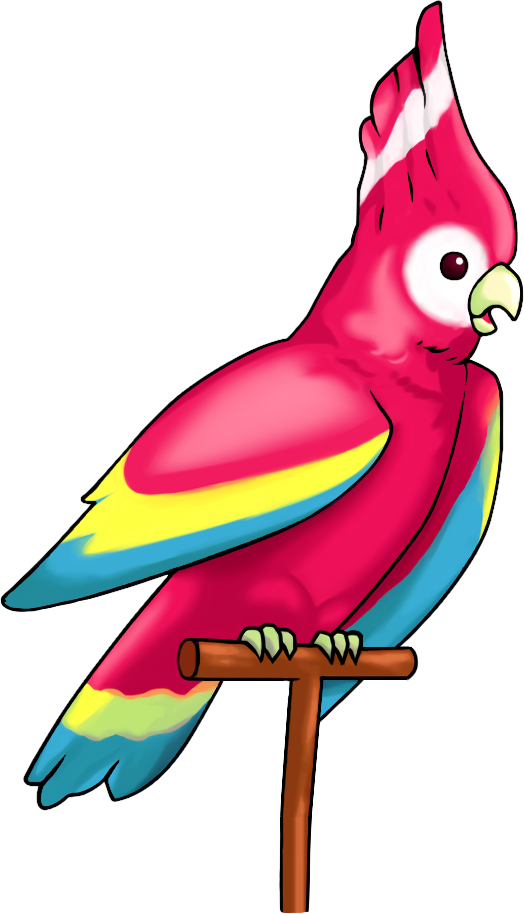
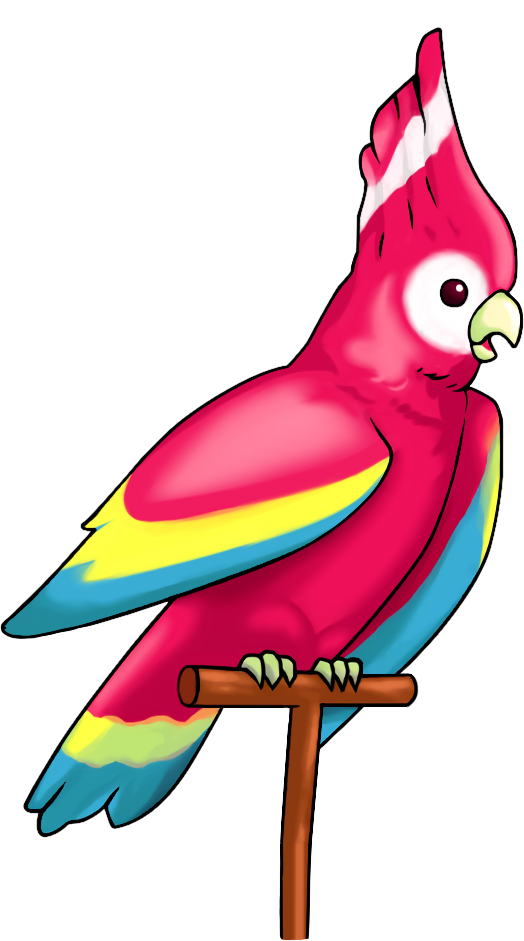
Parrot Mate: Text bubbles, image resizes
Added a new TextAction, added to an event by Text('Your text here'), which
shows up when the event is performed in a speech bubble to the parrot's
top-right.
Also resized and moved the images around for a bit so that they are all
the same size and located so that the stand in all of them is in the same
place. Before doing so, when the parrot was animated it looked like the
stand was moving, which was just weird.

Changed region(s): [[0.0, 0.0, 1.0, 0.8884], [0.5191, 0.8271, 0.5496, 0.8578]]

diff --git a/Scripted/Effects/ParrotMate/parrot.html b/Scripted/Effects/ParrotMate/parrot.html
@@ -3,38 +3,100 @@
 <head lang="en">
 	<meta charset="UTF-8">
 	<title>Parrot Mate</title>
-    <!-- This is to stop a weird "favicon" error.
-        Solution taken from here:
-        https://stackoverflow.com/questions/31075893/im-getting-favicon-ico-error -->
-    <link rel="shortcut icon" href="#" />
-    <style>
-        * {
-            margin: 0;
-            padding: 0;
-        }
-        .imgbox {
-            display: grid;
-            height: 100%;
-        }
-        .center-fit {
-            max-width: 100%;
-            max-height: 100vh;
-            margin: auto;
-            visibility: "hidden";
-        }
-    </style>
+	<!-- This is to stop a weird "favicon" error.
+		Solution taken from here:
+		https://stackoverflow.com/questions/31075893/im-getting-favicon-ico-error -->
+	<link rel="shortcut icon" href="#" />
+	<style>
+		
+		.imgbox {
+			display: grid;
+			height: 100%;
+		}
+		
+		.center-fit {
+			max-width: 100%;
+			max-height: 100vh;
+			margin: auto;
+			visibility: "hidden";
+		}
+		
+		.bubble-holder {
+			position: absolute;
+			left: 65%;
+			top: 5%;
+		}
+		
+		.bubble {
+			position: absolute;
+			font-family: -apple-system,BlinkMacSystemFont,Segoe UI,Roboto,Helvetica,Arial,sans-serif;
+			font-size: 48px;
+			line-height: 24px;
+			width: 400px;
+			background: #fff;
+			border-radius: 40px;
+			padding: 24px;
+			text-align: center;
+			color: #000;
+			border: #0c0c0c solid 4px;
+			z-index: 2;
+		}
+
+		.bubble:after {
+			content: "";
+			position: absolute;
+			width: 0px;
+			border-style: solid;
+			border-width: 20px 20px 0;
+			border-color: #CF5858 transparent;
+			border-left: 20px solid #fff;
+			border-right: 8px solid transparent;
+			border-top: 8px solid #fff;
+			border-bottom: 16px solid transparent;
+			left: 34px;
+			bottom: -24px;
+			display: block;
+			z-index: 1;
+		}
+
+		.bubble:before {
+			content: "";
+			width: 0px;
+			height: 0px;
+			position: absolute;
+			border-left: 24px solid #000;
+			border-right: 12px solid transparent;
+			border-top: 8px solid #000;
+			border-bottom: 20px solid transparent;
+			left: 32px;
+			bottom: -28px;
+			display: block;
+			z-index: 0;
+		}
+		
+		.bubble-text {
+			white-space: pre-wrap;
+			line-height: 1em;
+		}
+	</style>
 </head>
 <body>
 	<div id="soundholder"></div>
 	
 	<div id="imageholder" class="imgbox">
-	    <img id="parrot" class="center-fit" src="">
+		<img id="parrot" class="center-fit" src="">
+			<div id="bubble" class="bubble-holder">
+				<div id="bubbleText" class="bubble bubble-bottom-left bubble-text"></div>
+			</div>
 	</div>
 	
 	<script src="https://ajax.googleapis.com/ajax/libs/jquery/3.2.1/jquery.min.js"></script>
-    <script src="/socket.io/socket.io.js"></script>
+	
+	<script type="text/javascript">$('#bubble').hide();</script>
+	
+	<script src="/socket.io/socket.io.js"></script>
 	<script src="../effectClient.js"></script>
-    <script src="files.js"></script>
+	<script src="files.js"></script>
 	<script src="engine.js"></script>
 	<script src="sequences.js"></script>
 	<script src="parrot.js"></script>

diff --git a/Scripted/Effects/ParrotMate/sequences.js b/Scripted/Effects/ParrotMate/sequences.js
@@ -2,6 +2,7 @@
 const SEQUENCES = {
 	hey: Sequence([
 		Event(0, [ Sound('hey') ]),
+		Event(0, [ Text('Hey! Look! Listen!\nHey! Look! Listen!') ]),
 		Event(200, [ Image('wing') ]),
 		Event(500, [ Image('regular') ]),
 		Event(750, [ Image('look') ]),
@@ -39,6 +40,7 @@ const SEQUENCES = {
 	behind: Sequence([
 		Event(0, [ Sound('behind') ]),
 		Event(173, [ Image('wing') ]),
+		Event(694, [ Text('Look behind you!') ]),
 		Event(694, [ Image('look') ]),
 		Event(1744, [ Image('regular') ]),
 	]),
@@ -47,6 +49,7 @@ const SEQUENCES = {
 		Event(0, [ Sound('attention') ]),
 		Event(163, [ Image('wing') ]),
 		Event(686, [ Image('regular') ]),
+		Event(928, [ Text('Give me attention!') ]),
 		Event(928, [ Image('wing') ]),
 		Event(1183, [ Image('regular') ]),
 		Event(1417, [ Image('wing') ]),
@@ -58,6 +61,7 @@ const SEQUENCES = {
 		Event(0, [ Sound('cracker') ]),
 		Event(187, [ Image('mouth') ]),
 		Event(754, [ Image('look') ]),
+		Event(1066, [ Text('Polly want a cracker!') ]),
 		Event(1066, [ Image('mouth') ]),
 		Event(1336, [ Image('regular') ]),
 		Event(1606, [ Image('mouth') ]),
@@ -66,12 +70,14 @@ const SEQUENCES = {
 	
 	dl6: Sequence([
 		Event(0, [ Sound('dl6') ]),
+		Event(0, [ Text('Remember DL-6...') ]),
 		Event(137, [ Image('mouth') ]),
 		Event(376, [ Image('regular') ]),
 		Event(615, [ Image('mouth') ]),
 		Event(775, [ Image('regular') ]),
 		Event(935, [ Image('mouth') ]),
 		Event(1095, [ Image('regular') ]),
+		Event(1955, [ Text('*STARE*') ]),
 		Event(1955, [ Image('look') ]),
 		Event(7000, [ Image('regular') ]),
 	]),
@@ -90,6 +96,7 @@ const SEQUENCES = {
 		Event(0, [ Sound('died') ]),
 		Event(75, [ Image('wing') ]),
 		Event(675, [ Image('regular') ]),
+		Event(943, [ Text('I am died.') ]),
 		Event(943, [ Image('mouth') ]),
 		Event(1155, [ Image('regular') ]),
 		Event(1389, [ Image('mouth') ]),
@@ -99,8 +106,8 @@ const SEQUENCES = {
 	lars: Sequence([
 		Event(0, [ Sound('lars') ]),
 		Event(20, [ Image('mouth') ]),
-		Event(20, [ Image('mouth') ]),
 		Event(592, [ Image('regular') ]),
+		Event(842, [ Text('Where is Lars?') ]),
 		Event(842, [ Image('mouth') ]),
 		Event(1064, [ Image('look') ]),
 		Event(1331, [ Image('mouth') ]),
@@ -112,6 +119,7 @@ const SEQUENCES = {
 		Event(0, [ Sound('law') ]),
 		Event(148, [ Image('mouth') ]),
 		Event(649, [ Image('regular') ]),
+		Event(873, [ Text('What is law?') ]),
 		Event(873, [ Image('wing') ]),
 		Event(1136, [ Image('look') ]),
 		Event(1380, [ Image('wing') ]),

diff --git a/Scripted/Effects/ParrotMate/engine.js b/Scripted/Effects/ParrotMate/engine.js
@@ -1,25 +1,38 @@
-class Action {
-	constructor(name) {
-		this.name = name;
-	}
-}
-
 function showImage(name) {
 	$('#parrot').attr("src", IMAGE_LOCATIONS[name]);
 }
 
-class ImageAction extends Action {
-	perform() {
-		showImage(this.name);
-	}
-	
+function showText(text) {
+	$('#bubbleText').text(text);
+	$('#bubble').show();
+}
+
+function clearText() {
+	$('#bubble').hide();
+	$('#bubbleText').empty();
+}
+
+class Action {
 	get duration() {
 		return 0;
 	}
 }
-function Image(time, name) { return new ImageAction(time, name); }
 
-class SoundAction extends Action {
+class ResourceAction extends Action {
+	constructor(name) {
+		super();
+		this.name = name;
+	}
+}
+
+class ImageAction extends ResourceAction {
+	perform() {
+		showImage(this.name);
+	}
+}
+function Image(name) { return new ImageAction(name); }
+
+class SoundAction extends ResourceAction {
 	perform() {
 		Sounds[this.name].play();
 	}
@@ -28,7 +41,26 @@ class SoundAction extends Action {
 		return Sounds[this.name].duration * 1000;
 	}
 }
-function Sound(time, name) { return new SoundAction(time, name); }
+function Sound(name) { return new SoundAction(name); }
+
+class TextAction extends Action {
+	constructor(text) {
+		super();
+		this.text = text;
+	}
+	
+	perform() {
+		showText(this.text);
+	}
+}
+function Text(text) { return new TextAction(text); }
+
+class ClearTextAction extends Action {
+	perform() {
+		clearText();
+	}
+}
+function ClearText() { return new ClearTextAction() };
 
 class TimedEvent {
 	constructor(time, actions) {
@@ -128,8 +160,9 @@ class SequencePlayer {
 		this._playing = false;
 	}
 	
-	_showBaseImage() {
+	_sequenceFinished() {
 		showImage(this.baseImageName);
+		clearText();
 	}
 	
 	play() {
@@ -163,7 +196,7 @@ class RandomSequencePlayer extends SequencePlayer {
 		this.maxDelay = maxDelay;
 		
 		Object.values(this.sequences).forEach(sequence => 
-			sequence.onFinished(() => this._showBaseImage()));
+			sequence.onFinished(() => this._sequenceFinished()));
 	}
 	
 	setDelay(minDelay, maxDelay) {
@@ -188,7 +221,7 @@ class LoopingSequencePlayer extends SequencePlayer {
 		this.interval = interval;
 		this.running = false;
 		
-		this.sequence.onFinished(() => this._showBaseImage());
+		this.sequence.onFinished(() => this._sequenceFinished());
 	}
 	
 	_playNextImplementation() {

diff --git a/Scripted/Effects/ParrotMate/parrot.js b/Scripted/Effects/ParrotMate/parrot.js
@@ -5,6 +5,7 @@ const MINUTES = 60 * SECONDS;
 class ParrotMate extends EffectClient {
 	static get DEFAULT_BASE_DELAY()		{ return 5 * SECONDS; }
 	static get DEFAULT_DELAY_VARIANCE()	{ return 0; }
+	static get STARTING_DELAY()			{ return ParrotMate.DEFAULT_BASE_DELAY; }
 	
 	constructor() {
 		super('Parrot Mate');
@@ -47,10 +48,11 @@ class ParrotMate extends EffectClient {
 		this.server.on('stop', () => this.player.stop());
 		
 		showImage('regular');
+		clearText();
 		
 		this.server.attach();
 		
-		this.player.play();
+		setTimeout(() => this.player.play(), ParrotMate.STARTING_DELAY);
 	}
 }
 
